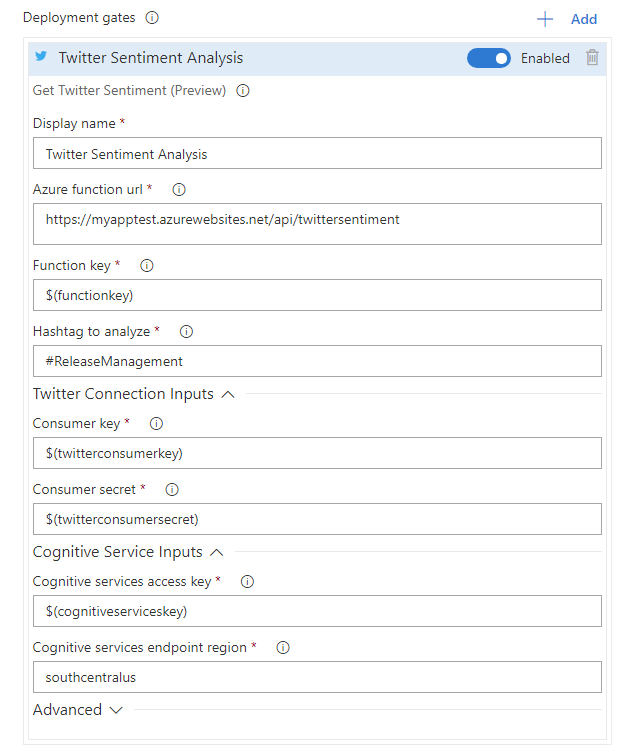
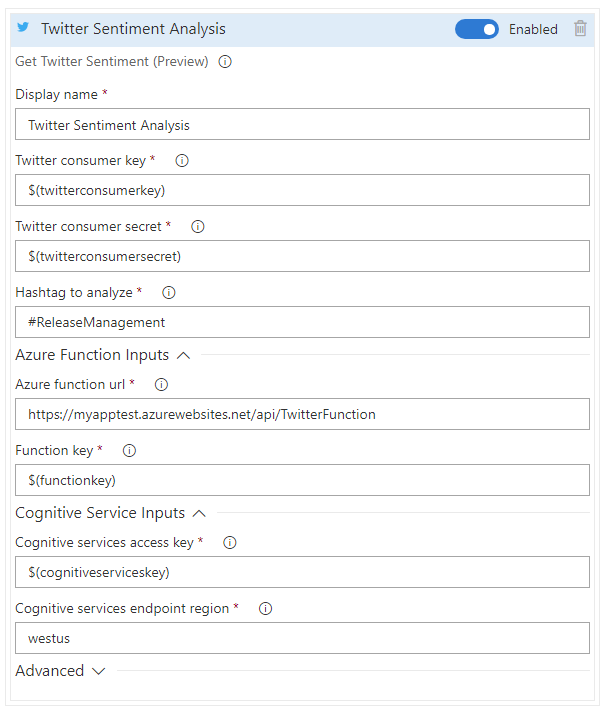
Addressed comments.

diff --git a/Extensions/TwitterSentimentAnalysis/Src/readme.md b/Extensions/TwitterSentimentAnalysis/Src/readme.md
@@ -30,21 +30,21 @@ Installing the extension adds the following 'Get Twitter Sentiment' gate and age
  
  The gate required the following inputs:
  
- - **Azure Function Url**:  Url of the Azure function that needs to be invoked. Example:- https://azurefunctionapp.azurewebsites.net/api/HttpTriggerCS1.
+ - **Twitter consumer key**:  Specify Twitter application consumer key. To keep the value secure, define a secret variable and use it here. If you don't have twitter application, create [Twitter application](https://apps.twitter.com/) and get the 'Consumer Key' from 'Keys and Access Tokens' tab.
+
+ - **Twitter consumer secret**:  Specify Twitter application consumer secret value. To keep the value secure, define a secret variable and use it here. If you don't have twitter application, create [Twitter application](https://apps.twitter.com/) and get the 'Consumer Secret' from 'Keys and Access Tokens' tab.
  
- - **Function Key**:  Function or Host key with which we can access this function. To keep the key secure, define a secret variable and use it here. Example: - $(myFunctionKey) where myFunctionKey is an environment level secret variable with value as the secret key like ZxPXnIEODXLRzYwCw1TgZ4osMfoKs9Zn6se6X/N0FnztfDvZbdOmYw==.
+ - **Hashtag to analyze**: Analyze sentiment of tweets made with this Hashtag like #ReleaseManagement.
 
- - **Hashtag To Analyze**: Analyze sentiment of tweets made with this Hashtag like #vsts.
+ - **Azure function url**:  Url of the Azure function that needs to be invoked. Example:- https://azurefunctionapp.azurewebsites.net/api/HttpTriggerCS1.
+ 
+ - **Azure function key**:  Function or Host key with which we can access this function. To keep the key secure, define a secret variable and use it here. Example: - $(myFunctionKey) where myFunctionKey is an environment level secret variable with value as the secret key like ZxPXnIEODXLRzYwCw1TgZ4osMfoKs9Zn6se6X/N0FnztfDvZbdOmYw==.
+ 
+ - **Cognitive services access key**:  Specify access key for Text Analytics API. To keep the key secure, define a secret variable and use it here. Follow this [guide](https://docs.microsoft.com/en-in/azure/cognitive-services/text-analytics/how-tos/text-analytics-how-to-access-key) to obtain a cognitive service access key.
 
- - **Consumer Key**:  Specify Twitter application consumer key. To keep the value secure, define a secret variable and use it here. If you don't have twitter application, [Create Twitter](https://apps.twitter.com/) application and get the 'Consumer Key' from 'Keys and Access Tokens' tab.
+ - **Cognitive services endpoint region**:  Specify the region corresponding to the Text Analytics API endpoint. For example, Region is 'westus' for cognitive service endpoint https://westus.api.conginitve.microsoft.com/text/analytics/v2.0.
 
- - **Consumer Secret**:  Specify Twitter application consumer secret value. To keep the value secure, define a secret variable and use it here. If you don't have twitter application, [Create Twitter](https://apps.twitter.com/) application and get the 'Consumer Secret' from 'Keys and Access Tokens' tab.
-
- - **Cognitive Services Access Key**:  Specify access key for Text Analytics API. To keep the key secure, define a secret variable and use it here. Follow this [guide](https://docs.microsoft.com/en-in/azure/cognitive-services/text-analytics/how-tos/text-analytics-how-to-access-key) to obtain a cognitive service access key.
-
- - **Cognitive Services Endpoint Region**:  Specify the region corresponding to the Text Analytics API endpoint. For example, Region is 'westus' for cognitive service endpoint https://westus.api.conginitve.microsoft.com/text/analytics/v2.0.
-
- - **Analyze Tweets Since**:  Analyze the tweets made after this time. By default, uses $(Release.Deployment.StartTime) and analyzes the tweets made after start of the deployment.
+ - **Analyze tweets since**:  Analyze the tweets made after this time. By default, uses $(Release.Deployment.StartTime) and analyzes the tweets made after start of the deployment.
 
  - **Threshold**: Threshold value for average sentiment of the tweets analyzed. If the average sentiment score is less than the threshold, task will fail. Default value is 0.5.
 
